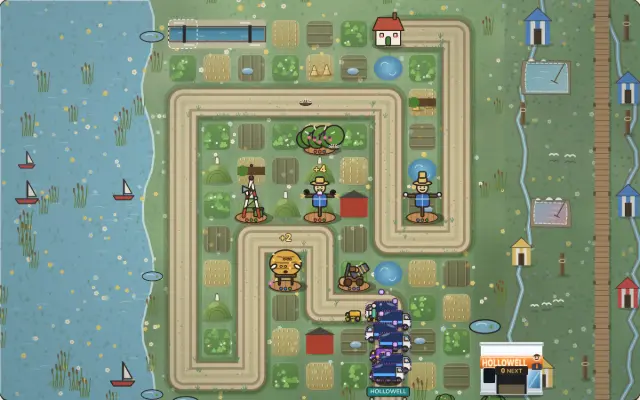
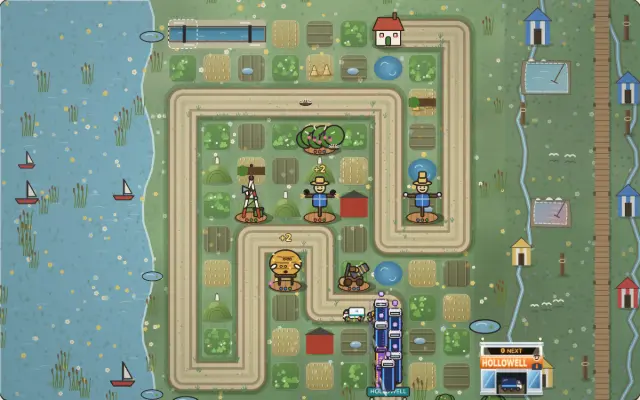
Hedgerow 2D: vehicles on up/down lane runs drawn from above, nose along the lane (plan item 285 slice 3); key art re-shot
Claude-Session: https://claude.ai/code/session_01SimvMN1RHBGCWN7Eo7MzhN

Changed region(s): [[0.5312, 0.72, 0.6562, 0.99], [0.75, 0.84, 0.8438, 0.99], [0.6562, 0.42, 0.6875, 0.45]]

diff --git a/games/hedgerow/src/sprites.ts b/games/hedgerow/src/sprites.ts
@@ -1421,6 +1421,8 @@ export interface EnemyLook {
   still?: boolean;
   /** Bubble wrap left (0 = popped; undefined = whole). */
   shield?: number;
+  /** Plan item 285: on an up or down run of the lane a vehicle is drawn from above, nose along the lane. */
+  heading?: "up" | "down";
 }
 
 /** How big each enemy is drawn, relative to a van. */
@@ -1514,8 +1516,62 @@ interface VehicleOpts {
   cabFront?: boolean;
 }
 
+/** Plan item 285: set while a vehicle on an up/down run is drawn, so `vehicle` draws it from above. */
+let fromAbove = false;
+/** The kinds drawn by `vehicle` alone, which have a from-above view; the rest keep their side view on any run. */
+export const TOP_DOWN: ReadonlySet<EnemyKind> = new Set(["van", "phantom", "truck", "tender", "director", "clinic", "hatchback", "sprinter", "lorry", "artic", "execcar", "rival"]);
+
+/** A vehicle seen from above, nose to the right, centred on (x, y): its roof, cab and windscreen, the livery down
+ *  both sides, the label on the roof, wheels at the corners and headlights at the nose. */
+function vehicleTop(ctx: C, x: number, y: number, s: number, o: VehicleOpts): void {
+  const L = s * o.len;
+  const W = s * Math.min(0.34, o.h * 1.05);
+  const x0 = x - L / 2;
+  const y0 = y - W / 2;
+  // Wheels first, poking out at the corners (three axles on the long ones).
+  ctx.fillStyle = "#2a2522";
+  const n = Math.max(2, o.wheels ?? 2);
+  for (let i = 0; i < n; i++) {
+    const wx = x0 + L * (0.16 + (i * 0.66) / (n - 1));
+    for (const side of [-1, 1]) ctx.fillRect(wx - s * 0.04, y + side * W * 0.5 - s * 0.025 + (side < 0 ? -s * 0.012 : 0), s * 0.08, s * 0.05);
+  }
+  // The body and roof.
+  rr(ctx, x0, y0, L, W, s * 0.06, o.body);
+  const cabFront = o.cabFront !== false;
+  if (cabFront) {
+    rr(ctx, x0 + L * 0.74, y0, L * 0.26, W, s * 0.06, o.cab ?? o.body);
+    // Windscreen across the cab.
+    ctx.fillStyle = "#a9d4e6";
+    ctx.fillRect(x0 + L * 0.8, y0 + W * 0.16, L * 0.07, W * 0.68);
+    ctx.strokeRect(x0 + L * 0.8, y0 + W * 0.16, L * 0.07, W * 0.68);
+    // Headlights at the nose.
+    ctx.fillStyle = "#fff2a8";
+    for (const side of [-1, 1]) {
+      ctx.beginPath();
+      ctx.arc(x0 + L - s * 0.02, y + side * W * 0.32, s * 0.022, 0, Math.PI * 2);
+      ctx.fill();
+    }
+  }
+  if (o.stripe) {
+    ctx.fillStyle = o.stripe;
+    for (const side of [-1, 1]) ctx.fillRect(x0 + s * 0.03, y + side * W * 0.36 - W * 0.06, L * (cabFront ? 0.68 : 0.94), W * 0.12);
+  }
+  if (o.label) {
+    ctx.fillStyle = o.labelColor ?? "#1f8a8a";
+    ctx.font = `800 ${Math.max(6, Math.round(W * 0.42))}px 'Hedgerow UI', system-ui, sans-serif`;
+    ctx.textAlign = "center";
+    ctx.textBaseline = "middle";
+    ctx.fillText(o.label, x0 + L * (cabFront ? 0.37 : 0.5), y);
+  }
+  shine(ctx, x0 + L * 0.12, y0 + W * 0.14, L * 0.3, W * 0.12);
+}
+
 /** A side-on vehicle facing right, its wheels on the ground at y. */
 function vehicle(ctx: C, x: number, y: number, s: number, t: number, o: VehicleOpts): void {
+  if (fromAbove) {
+    vehicleTop(ctx, x, y, s, o);
+    return;
+  }
   const L = s * o.len;
   const H = s * o.h;
   const wr = s * 0.075;
@@ -1620,7 +1676,14 @@ export function drawEnemy(ctx: C, look: EnemyLook, x: number, y: number, s0: num
   ctx.translate(x, y - lift + hover);
   // Plan item 19: a hit squashes the body down and out, then it springs back past rest and settles.
   const q = !look.still && look.hit < 0.24 ? Math.sin((look.hit / 0.24) * Math.PI * 1.5) * (1 - look.hit / 0.24) : 0;
-  ctx.scale(look.facing * (1 + q * 0.16), 1 - q * 0.2);
+  // Plan item 285: up or down the lane a vehicle is seen from above, nose along the lane, centred over its ground
+  // point (the side view stands on it).
+  fromAbove = !!look.heading && TOP_DOWN.has(kind);
+  if (fromAbove) {
+    ctx.translate(0, -s * 0.2);
+    ctx.rotate(look.heading === "down" ? Math.PI / 2 : -Math.PI / 2);
+    ctx.scale(1 + q * 0.16, 1 - q * 0.2);
+  } else ctx.scale(look.facing * (1 + q * 0.16), 1 - q * 0.2);
   // Hit flash: the sprite itself brightens for a moment (no effect where canvas filters are unsupported).
   if (look.hit < 0.08) ctx.filter = "brightness(1.7)";
   ctx.lineWidth = lw(s0);
@@ -1985,6 +2048,7 @@ export function drawEnemy(ctx: C, look: EnemyLook, x: number, y: number, s0: num
       break;
     }
   }
+  fromAbove = false;
   ctx.filter = "none";
   ctx.restore();
 }

diff --git a/games/hedgerow/src/render.ts b/games/hedgerow/src/render.ts
@@ -46,6 +46,7 @@ import {
 
   INK,
   drawEnemy,
+  TOP_DOWN,
   drawPropIcon,
   propIconsFor,
   drawFarmhouse,
@@ -145,6 +146,15 @@ function popScale(k: number): number {
   const c = 1.9;
   const x = k - 1;
   return 1 + (c + 1) * x * x * x + c * x * x;
+}
+
+/** Plan item 285: which way the lane runs where this enemy is: "up" or "down" on a vertical run (drawn from
+ *  above), else undefined (the side view). */
+function runOf(level: Level, e: { dist: number; lane?: number | null }): "up" | "down" | undefined {
+  const path = e.lane && level.path2 ? level.path2 : level.path;
+  const h = headingAt(path, e.dist);
+  if (h.dy === 0 || Math.abs(h.dx) >= Math.abs(h.dy)) return undefined;
+  return h.dy > 0 ? "down" : "up";
 }
 
 export class Renderer {
@@ -1009,6 +1019,7 @@ export class Renderer {
       const since = this.hitAt.get(e.id) ?? 9;
       this.hitAt.set(e.id, since + dt);
       const gy = p.y + 0.2;
+      const heading = runOf(level, e);
       items.push({
         y: gy,
         draw: () => {
@@ -1022,6 +1033,7 @@ export class Renderer {
               phase: (e.id % 7) * 0.31,
               shield: e.shield,
               still: this.reducedMotion,
+              heading,
             },
             X(p.x),
             Y(gy),
@@ -1029,10 +1041,21 @@ export class Renderer {
             e.stun > 0 || e.held ? t * 0.15 : t,
           );
           this.drawStatus(e, X(p.x), Y(gy), s, t);
+          // Plan item 285: from above (an up/down run, `drawEnemy` turns the body a quarter about its centre), the
+          // body's overlays turn with it.
+          const run = TOP_DOWN.has(e.kind) ? heading : undefined;
+          if (run) {
+            const cy = Y(gy) - s * enemyScale(e.kind) * 0.2;
+            ctx.save();
+            ctx.translate(X(p.x), cy);
+            ctx.rotate(run === "down" ? Math.PI / 2 : -Math.PI / 2);
+            ctx.translate(-X(p.x), -cy);
+          }
           // Fleet properties (Hedgerow 2 section 2): each lock tints the body in its own material.
           if (e.pm) this.drawMaterial(ctx, e.pm, e.kind, X(p.x), Y(gy), s);
           const crack = crackStage(e.kind, e.hp, maxHpOf(e));
           if (crack) this.drawCracks(ctx, crack, e.kind, X(p.x), Y(gy), s, t);
+          if (run) ctx.restore();
         },
       });
     }

diff --git a/docs/plan/two-week-plan.md b/docs/plan/two-week-plan.md
@@ -2824,7 +2824,7 @@ The items come from fresh-eyes audits on 2026-11-01 and 2026-11-02 (items 25-32:
 - **Accept:** at D her face 40 px+ tall at the default camera, eyes, liner and the raised right brow visible; a cheer on a wave clear (e2e hook); draw calls +30 or fewer; gate 1 holds; hedgerow 3D specs pass; shots P and D, 3D and `?2d`.
 - **Size:** 2
 
-## 285. [ ] Hedgerow 2D: the fleet as characterful, animated sprites *(lane B, in progress)* *(slice 1, 2026-11-08 09:46 lane B: a van that falls tips and spills three parcels that tumble across the lane over 0.5 s (none under reduced motion); `window.hedgerow2d.tip(kind, x, y)` in the sandbox stages it. Checked, already there: a driver in the cab (item 256), a wheel bob, exhaust puffs, a hit flash and squash, vines on a slowed vehicle. Size: on a vertical lane, side-on sprites past 1x overhang the plots (item 266), so 44 px at D needs top-down sprites for up/down runs: left for a later slice. vehicles, gatequeue, depot, swarm, critique pass (55); key art re-shot; shots scratchpad tips2)* *(09:55, **tried and reverted:** five health pips over damaged big vehicles: on D l34 a round is 144+ lorries nose to tail (shot scratchpad pip-24), so bars over each would bury the lane; damage keeps reading by the cracks (crackStage). A pip bar fits bosses only, if at all. Left: top-down sprites for up/down lane runs so vehicles can reach 44 px at D, greyscale distinction check, a sprite-per-id unit test)* *(slice 2, 2026-11-08 10:45 lane B: `tests/hedgerow-sprites-all.test.ts` draws every enemy id (39) into a recording canvas and checks each draws a body of its own, with a control that an unknown id draws only its shadow. Left: top-down sprites for up/down runs (44 px at D), greyscale check)* *(2026-11-08 11:30 lane B, checked: in greyscale (plan1108c/hedge-l34-2d-D) the Box Lorries read apart by shape (box body, white cab, three wheels). Left: top-down sprites for up/down runs)*
+## 285. [ ] Hedgerow 2D: the fleet as characterful, animated sprites *(lane B, in progress)* *(slice 1, 2026-11-08 09:46 lane B: a van that falls tips and spills three parcels that tumble across the lane over 0.5 s (none under reduced motion); `window.hedgerow2d.tip(kind, x, y)` in the sandbox stages it. Checked, already there: a driver in the cab (item 256), a wheel bob, exhaust puffs, a hit flash and squash, vines on a slowed vehicle. Size: on a vertical lane, side-on sprites past 1x overhang the plots (item 266), so 44 px at D needs top-down sprites for up/down runs: left for a later slice. vehicles, gatequeue, depot, swarm, critique pass (55); key art re-shot; shots scratchpad tips2)* *(09:55, **tried and reverted:** five health pips over damaged big vehicles: on D l34 a round is 144+ lorries nose to tail (shot scratchpad pip-24), so bars over each would bury the lane; damage keeps reading by the cracks (crackStage). A pip bar fits bosses only, if at all. Left: top-down sprites for up/down lane runs so vehicles can reach 44 px at D, greyscale distinction check, a sprite-per-id unit test)* *(slice 2, 2026-11-08 10:45 lane B: `tests/hedgerow-sprites-all.test.ts` draws every enemy id (39) into a recording canvas and checks each draws a body of its own, with a control that an unknown id draws only its shadow. Left: top-down sprites for up/down runs (44 px at D), greyscale check)* *(2026-11-08 11:30 lane B, checked: in greyscale (plan1108c/hedge-l34-2d-D) the Box Lorries read apart by shape (box body, white cab, three wheels). Left: top-down sprites for up/down runs)* *(slice 3, 2026-11-13 02:50 lane B: on an up or down run of the lane the 12 kinds drawn by `vehicle` alone (van, phantom, truck, tender, director, clinic, hatchback, sprinter, lorry, artic, execcar, rival, `TOP_DOWN`) are drawn from above, nose along the lane: roof and cab, a windscreen, the livery down both sides, the label on the roof, wheels at the corners, headlights (`vehicleTop`; `drawEnemy` turns it a quarter about the body's centre from `runOf`, the lane's heading at its distance); the fleet-lock tint and cracks turn with it, status icons stay upright. Key art re-shot. sprites-all, tower-idle, keyart-fresh pass; hedgerow-silhouettes, cath2d, gatequeue, depot pass at P and D (gatequeue's notebook case failed once under load, passes alone); shots scratchpad td285-{D,P}. Left: the other kinds' from-above views (the wrapped van, bus, crane, influencer...), then the 44 px length on vertical runs)*
 - **Why:** `plan1108b/hedge-l21-2d-D` (305-340 x 270-460): the Lifestyle influencers are ~30 px pink car glyphs; `hedge-l34-2d-D` (235-300 x 110-380): Box Lorries are flat blue boxes. In a Kingdom Rush-type game the enemies are stars; here they read as icons (item 280 covers only 3D).
 - **Build:** a drawn sprite per enemy type: a driver in the cab, a Hollowell livery, a bounce on the wheels and exhaust puffs; a hit flash, a slowed state (mud on the wheels), a defeat where the van tips and its parcels scatter; a health pip bar.
 - **Accept:** enemies 44 px+ long at D and 28 px+ at P; each type told apart in a greyscale shot; a unit test that every enemy id has a sprite; reduced motion no bounce; Hedgerow level tests and 2D specs pass; shots P and D, l21 and l34.
